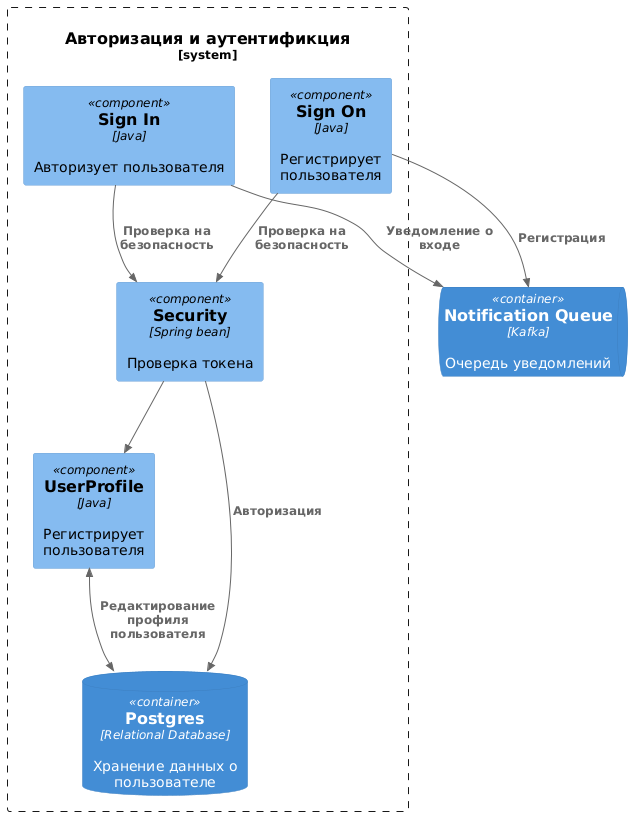
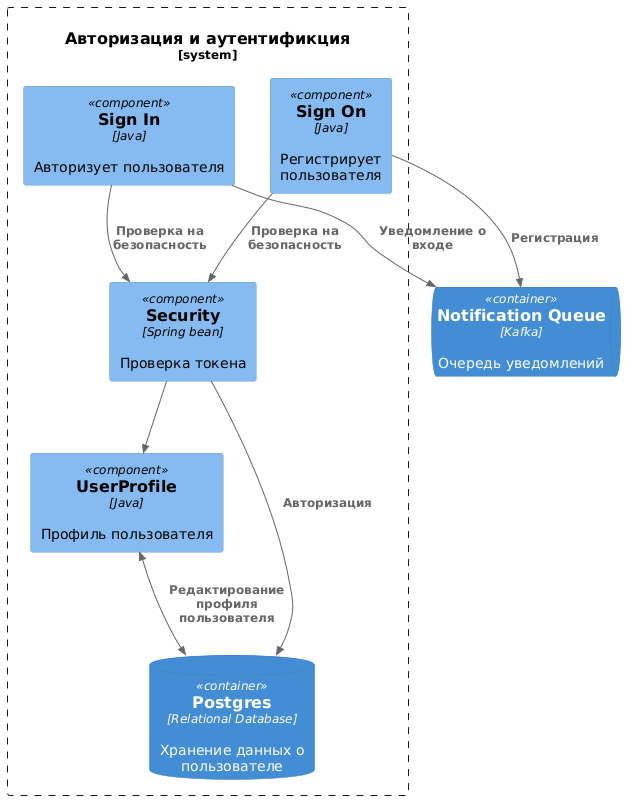
sprint 3 ready

Changed region(s): [[0.0304, 0.0312, 0.6981, 1.0], [0.5767, 0.25, 1.0, 0.4688], [0.6981, 0.2188, 0.7588, 0.25]]

diff --git a/Project_template.md b/Project_template.md
@@ -67,34 +67,29 @@
 
 **Диаграмма компонентов (Components)**
 
-[Авторизация и аутентификация](doc/task2_component_diagram_auth.puml)
-![Авторизация и аутентификация](doc/task2_component_diagram_auth.png)
+[Управление устройствами](doc/task2_component_diagram_management_system.puml)
+![Управление устройствами](doc/task2_component_diagram_management_system.png)
+
+[Конфигурирование устройств](doc/task2_component_diagram_configuration_system.puml)
+![Конфигурирование устройств](doc/task2_component_diagram_configuration_system.png)
 
 [Управление уведомлениями](doc/task2_component_diagram_notifications.puml)
 ![Управление уведомлениями](doc/task2_component_diagram_notifications.png)
 
-[Управление устройствами](doc/task2_component_diagram_management_system.puml)
-![Управление устройствами](doc/task2_component_diagram_management_system.png)
-
-[Управление конфигурациями](doc/task2_component_diagram_configuration_system.puml)
-![Управление конфигурациями](doc/task2_component_diagram_configuration_system.png)
+[Авторизация и аутентификация](doc/task2_component_diagram_auth.puml)
+![Авторизация и аутентификация](doc/task2_component_diagram_auth.png)
 
 **Диаграмма кода (Code)**
 
-Добавьте одну диаграмму или несколько.
+[Диаграма кода Devices Repository](doc/task2_code_diagram.puml)
+![Диаграма кода Devices Repository](doc/task2_code_diagram.png)
 
 # Задание 3. Разработка ER-диаграммы
 
 [ER-диаграмма](doc/task3_erd.puml)
+![ER-диаграмма](doc/task3_erd.png)
 
-
-Четвёртое задание — дополнительное. Его можно сделать по желанию. Чтобы ревьюер быстрее проверил ваше решение, укажите, сделали вы это задание или нет. Для этого оставьте нужный эмодзи около заголовка задания:
-
-✅ — вы выполнили задание.
-
-❌ — вы пропустили задание.
-
-# ✅ ❌ Задание 4. Создание и документирование API
+# ❌ Задание 4. Создание и документирование API
 
 ### 1. Тип API
 
